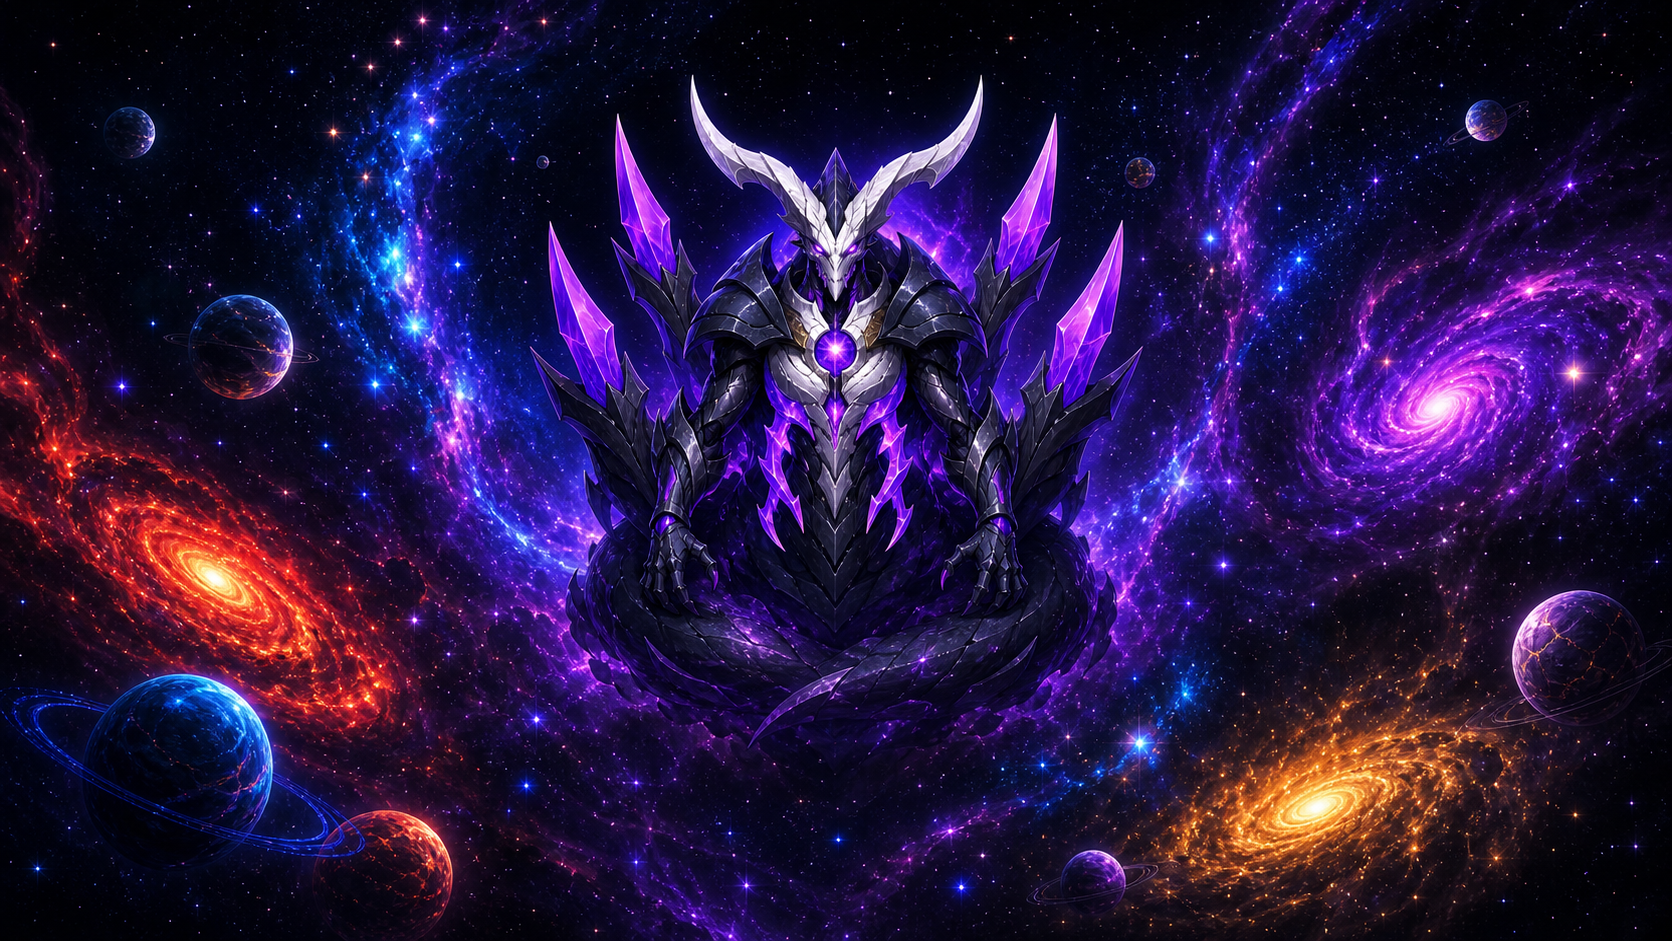
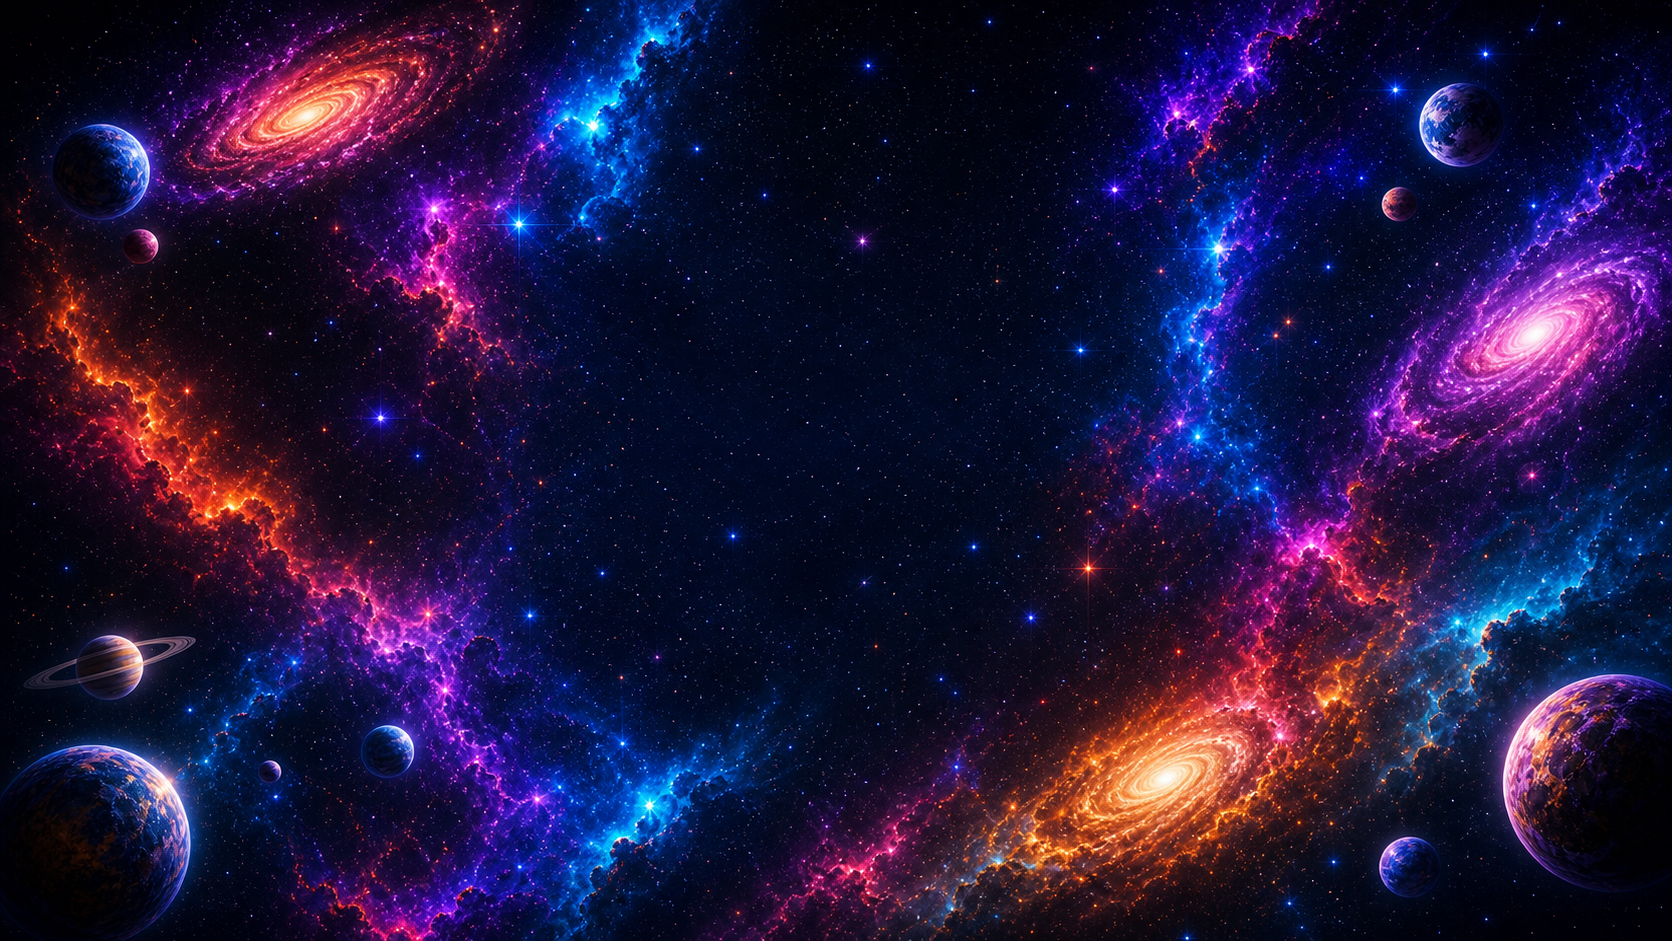
Replace boss arena with clean cosmic background

diff --git a/src/app/games/rpg-world/page.tsx b/src/app/games/rpg-world/page.tsx
@@ -1012,8 +1012,6 @@ export default function RpgWorldPage() {
           this.add.image(BOSS_ARENA.width / 2, BOSS_ARENA.height / 2, 'boss-cosmic-arena')
             .setDisplaySize(BOSS_ARENA.width, BOSS_ARENA.height)
             .setDepth(0);
-          this.add.rectangle(BOSS_ARENA.width / 2, 48, BOSS_ARENA.width, 96, 0x020617, 0.18).setDepth(1);
-          this.add.rectangle(BOSS_ARENA.width / 2, BOSS_ARENA.height - 40, BOSS_ARENA.width, 80, 0x020617, 0.12).setDepth(1);
         }
 
         private _createAnimatedBoss() {